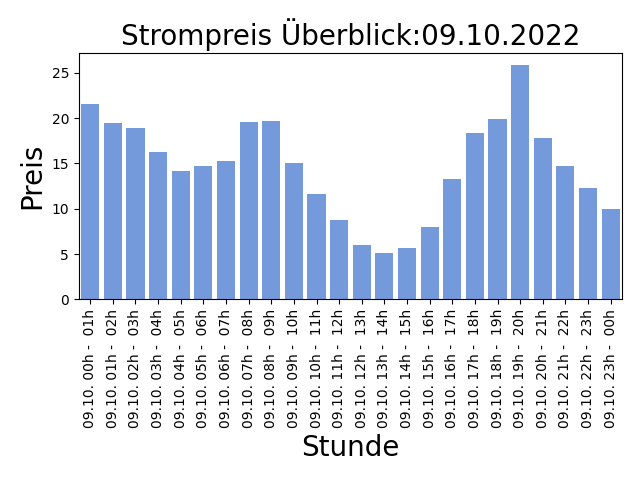
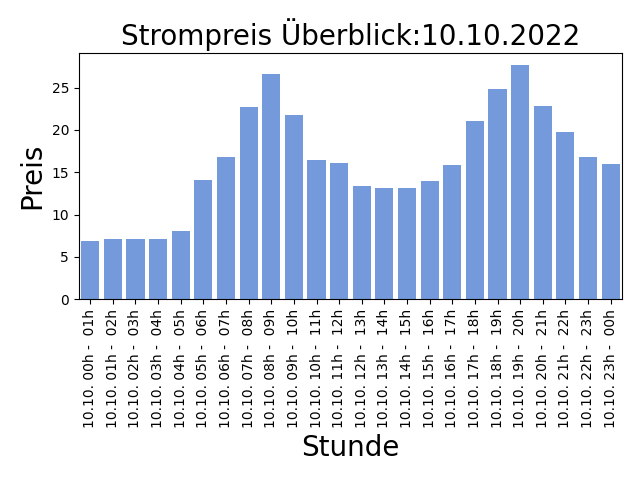
AUTOMATIC UPDATE PRICE LIST: 2022-10-09-14:30:06

diff --git a/README.md b/README.md
@@ -1,5 +1,5 @@
 
-## Strompreise für den 09.10.2022
+## Strompreise für den 10.10.2022
 
 Niedrige Preise deuten auf viel Sonnen und Windenergieerzeugung hin, ein hoher Anteil an erneuerbaren Energien bedeuted weniger CO2 Verbrauch!
 
@@ -7,31 +7,31 @@ Niedrige Preise deuten auf viel Sonnen und Windenergieerzeugung hin, ein hoher A
 
 | Stunde | Preis in Cent/kWh |
 |---|---|
-| 09.10. 00h -  01h | 21.613 | 
-| 09.10. 01h -  02h | 19.502000000000002 | 
-| 09.10. 02h -  03h | 18.941 | 
-| 09.10. 03h -  04h | 16.21 | 
-| 09.10. 04h -  05h | 14.194999999999999 | 
-| 09.10. 05h -  06h | 14.712 | 
-| 09.10. 06h -  07h | 15.3 | 
-| 09.10. 07h -  08h | 19.568 | 
-| 09.10. 08h -  09h | 19.669999999999998 | 
-| 09.10. 09h -  10h | 15.084999999999999 | 
-| 09.10. 10h -  11h | 11.6 | 
-| 09.10. 11h -  12h | 8.769 | 
-| 09.10. 12h -  13h | 6.01 | 
-| **09.10. 13h -  14h** | **5.16** | 
-| 09.10. 14h -  15h | 5.651 | 
-| 09.10. 15h -  16h | 8.009 | 
-| 09.10. 16h -  17h | 13.238 | 
-| 09.10. 17h -  18h | 18.308 | 
-| 09.10. 18h -  19h | 19.884 | 
-| 09.10. 19h -  20h | 25.874000000000002 | 
-| 09.10. 20h -  21h | 17.858 | 
-| 09.10. 21h -  22h | 14.761000000000001 | 
-| 09.10. 22h -  23h | 12.235 | 
-| 09.10. 23h -  00h | 9.986 | 
+| **10.10. 00h -  01h** | **6.937** | 
+| 10.10. 01h -  02h | 7.087000000000001 | 
+| 10.10. 02h -  03h | 7.083 | 
+| 10.10. 03h -  04h | 7.089 | 
+| 10.10. 04h -  05h | 8.067 | 
+| 10.10. 05h -  06h | 14.14 | 
+| 10.10. 06h -  07h | 16.779 | 
+| 10.10. 07h -  08h | 22.726 | 
+| 10.10. 08h -  09h | 26.636000000000003 | 
+| 10.10. 09h -  10h | 21.718 | 
+| 10.10. 10h -  11h | 16.503 | 
+| 10.10. 11h -  12h | 16.058 | 
+| 10.10. 12h -  13h | 13.346 | 
+| 10.10. 13h -  14h | 13.108 | 
+| 10.10. 14h -  15h | 13.116999999999999 | 
+| 10.10. 15h -  16h | 13.937000000000001 | 
+| 10.10. 16h -  17h | 15.886000000000001 | 
+| 10.10. 17h -  18h | 21.058 | 
+| 10.10. 18h -  19h | 24.781 | 
+| 10.10. 19h -  20h | 27.674 | 
+| 10.10. 20h -  21h | 22.797 | 
+| 10.10. 21h -  22h | 19.778 | 
+| 10.10. 22h -  23h | 16.777 | 
+| 10.10. 23h -  00h | 15.934000000000001 | 
 
 Preise der EPEX Spot ® Strombörse (neue Preise werden täglich um 14:00 veröffentlicht für den kompletten nächsten Tag).
 
-letzte Aktualisierung:08.10.2022 14:30
+letzte Aktualisierung:09.10.2022 14:30
